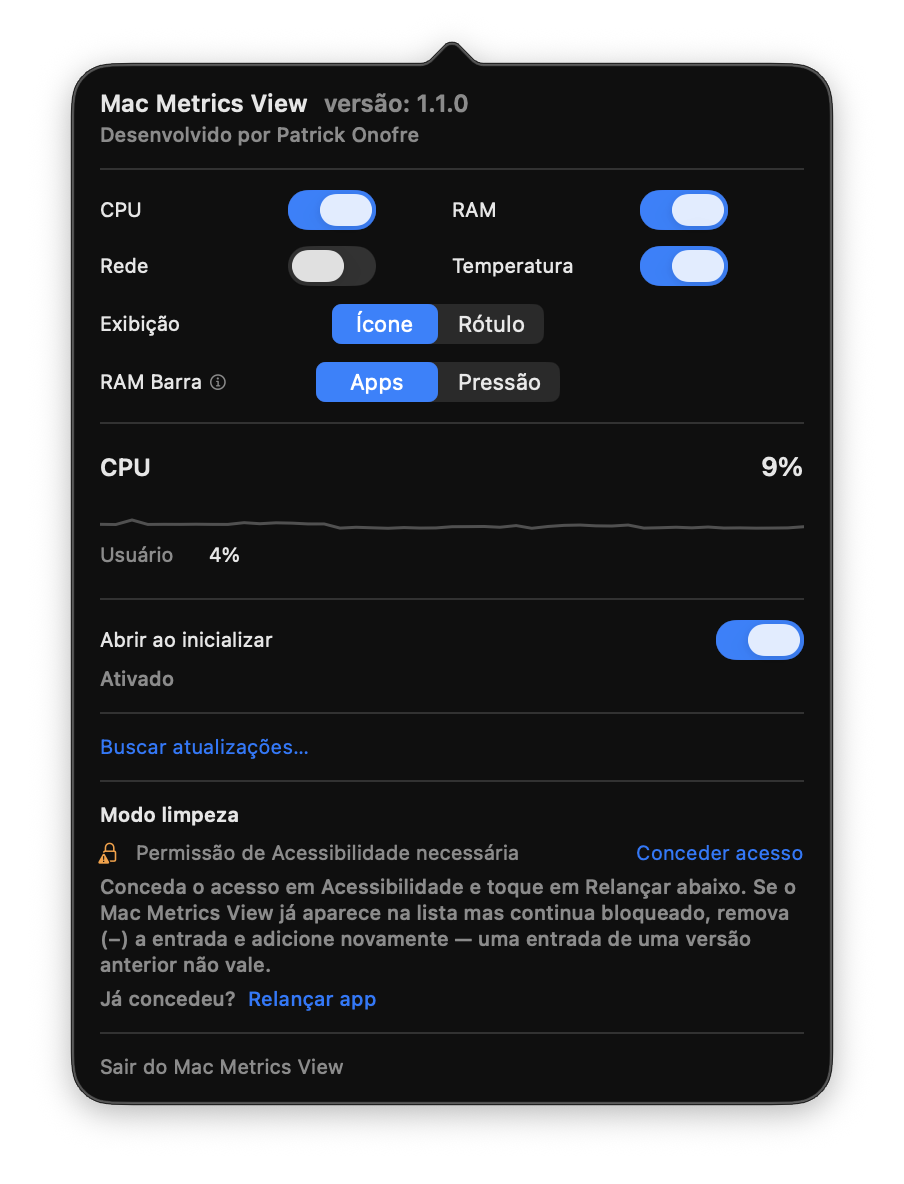
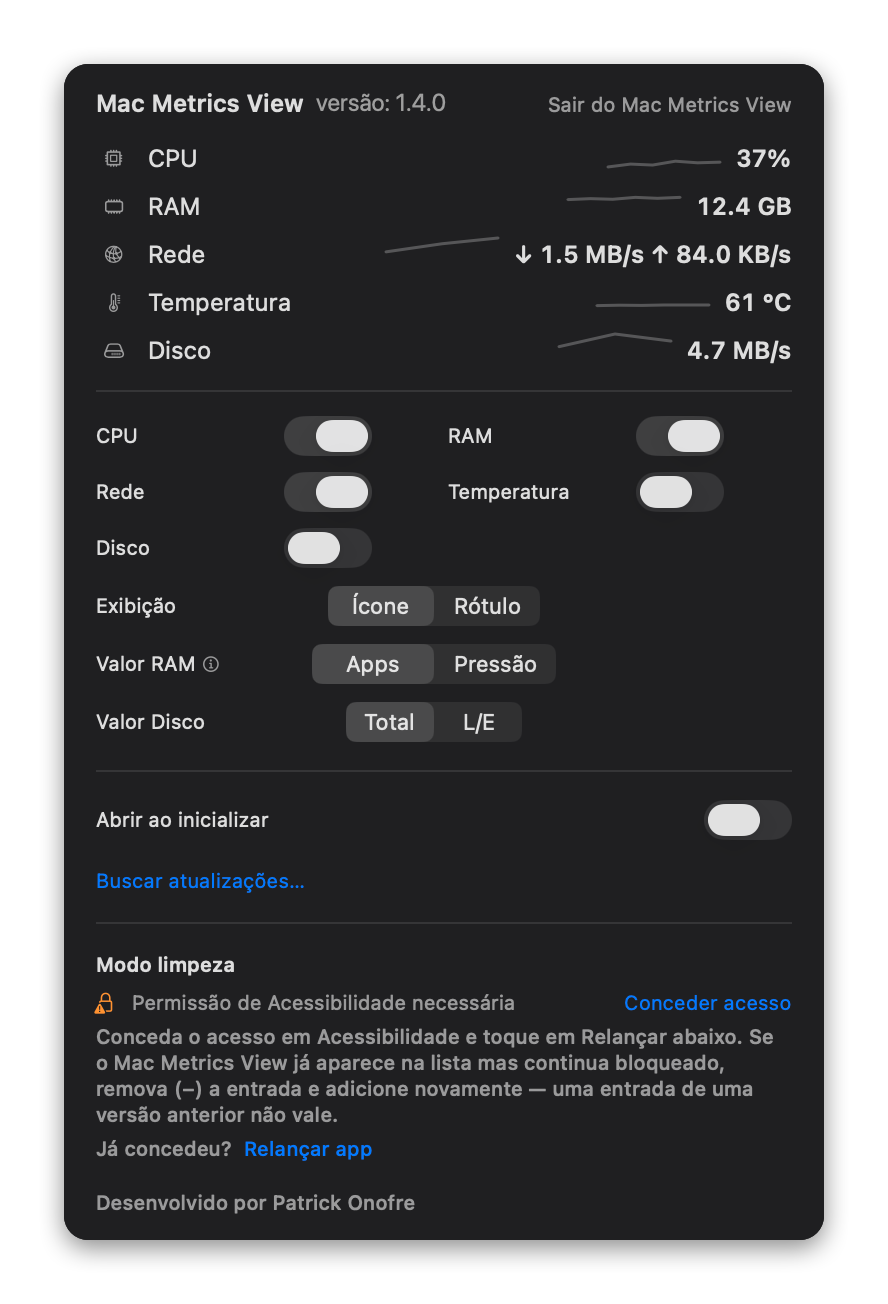
Site: refresh menu bar + popover screenshots for 1.4
Regenerate the marketing images to match the shipped 1.4 UI:
- menu-bar-preview.png: compact adaptive network (↓1.2M ↑84K), current
  icons/values.
- app-popover-preview.png: redesigned popover — slim header (versão 1.4.0),
  all five metrics as compact rows with sparklines, "Valor RAM"/"Valor Disco"
  pickers, no "Atualizado"/"Ativado" lines.
- og:image dimensions updated to 888x1304.

Rendered from the real SwiftUI view via an on-screen window capture (real
AppKit controls), wrapped in rounded-corner + shadow chrome.

diff --git a/docs/index.html b/docs/index.html
@@ -19,8 +19,8 @@
     <meta property="og:description" content="CPU, RAM, rede e temperatura direto na barra de menus do macOS. Nativo, local e sem telemetria.">
     <meta property="og:image" content="https://patrickonofre.github.io/mac-metrics-view/assets/app-popover-preview.png">
     <meta property="og:image:alt" content="Popover do Mac Metrics View com CPU, RAM, rede, temperatura e controles de exibição">
-    <meta property="og:image:width" content="904">
-    <meta property="og:image:height" content="1184">
+    <meta property="og:image:width" content="888">
+    <meta property="og:image:height" content="1304">
     <meta property="og:locale" content="pt_BR">
     <meta property="og:locale:alternate" content="en_US">
 
